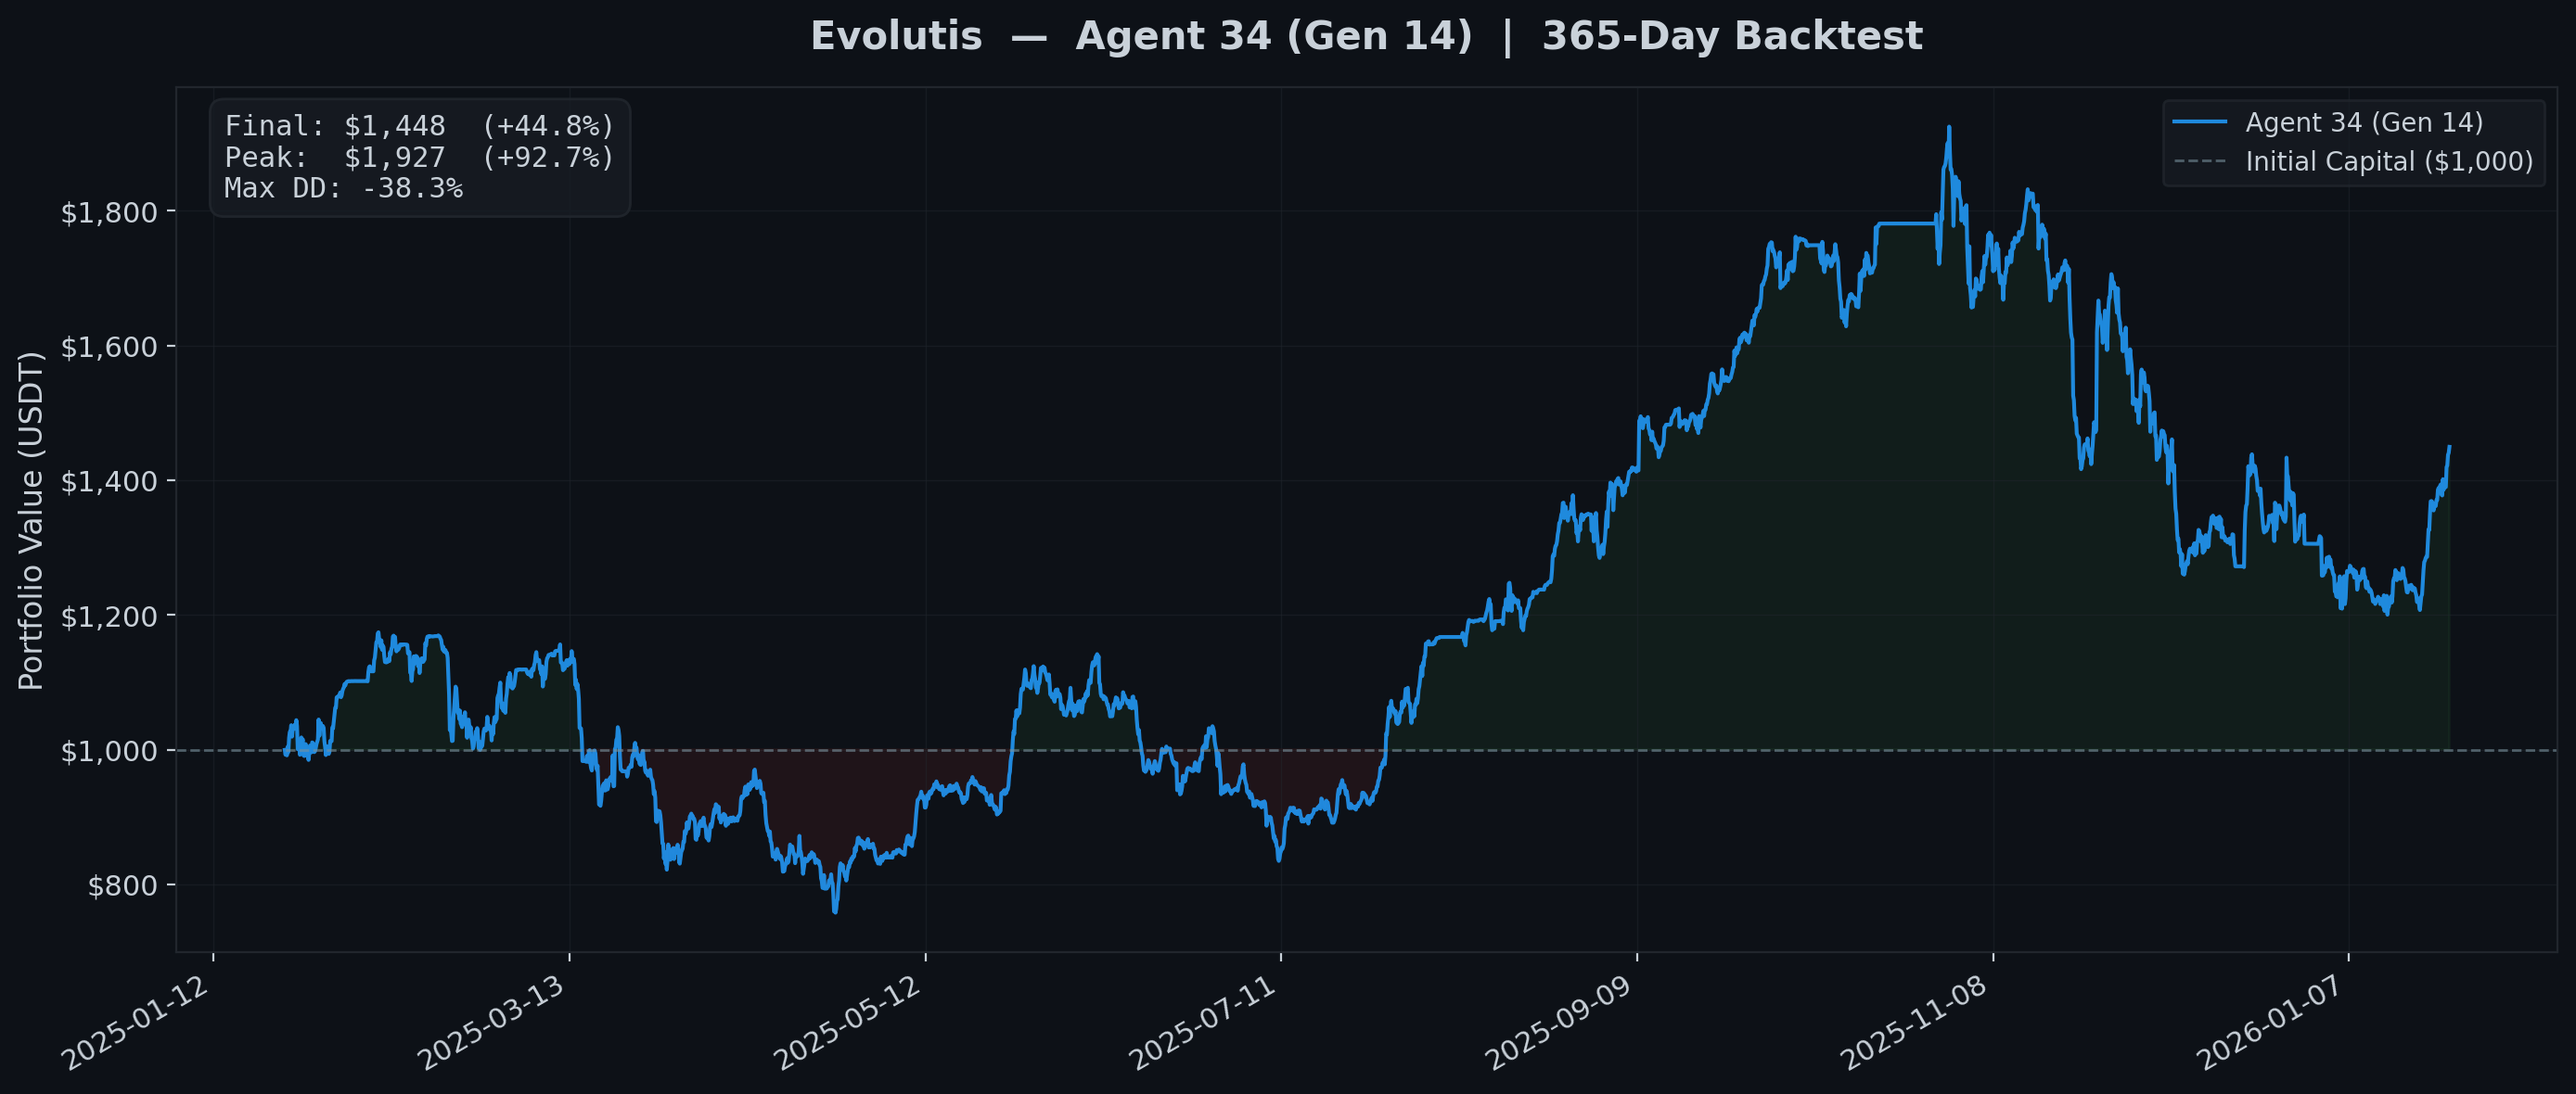
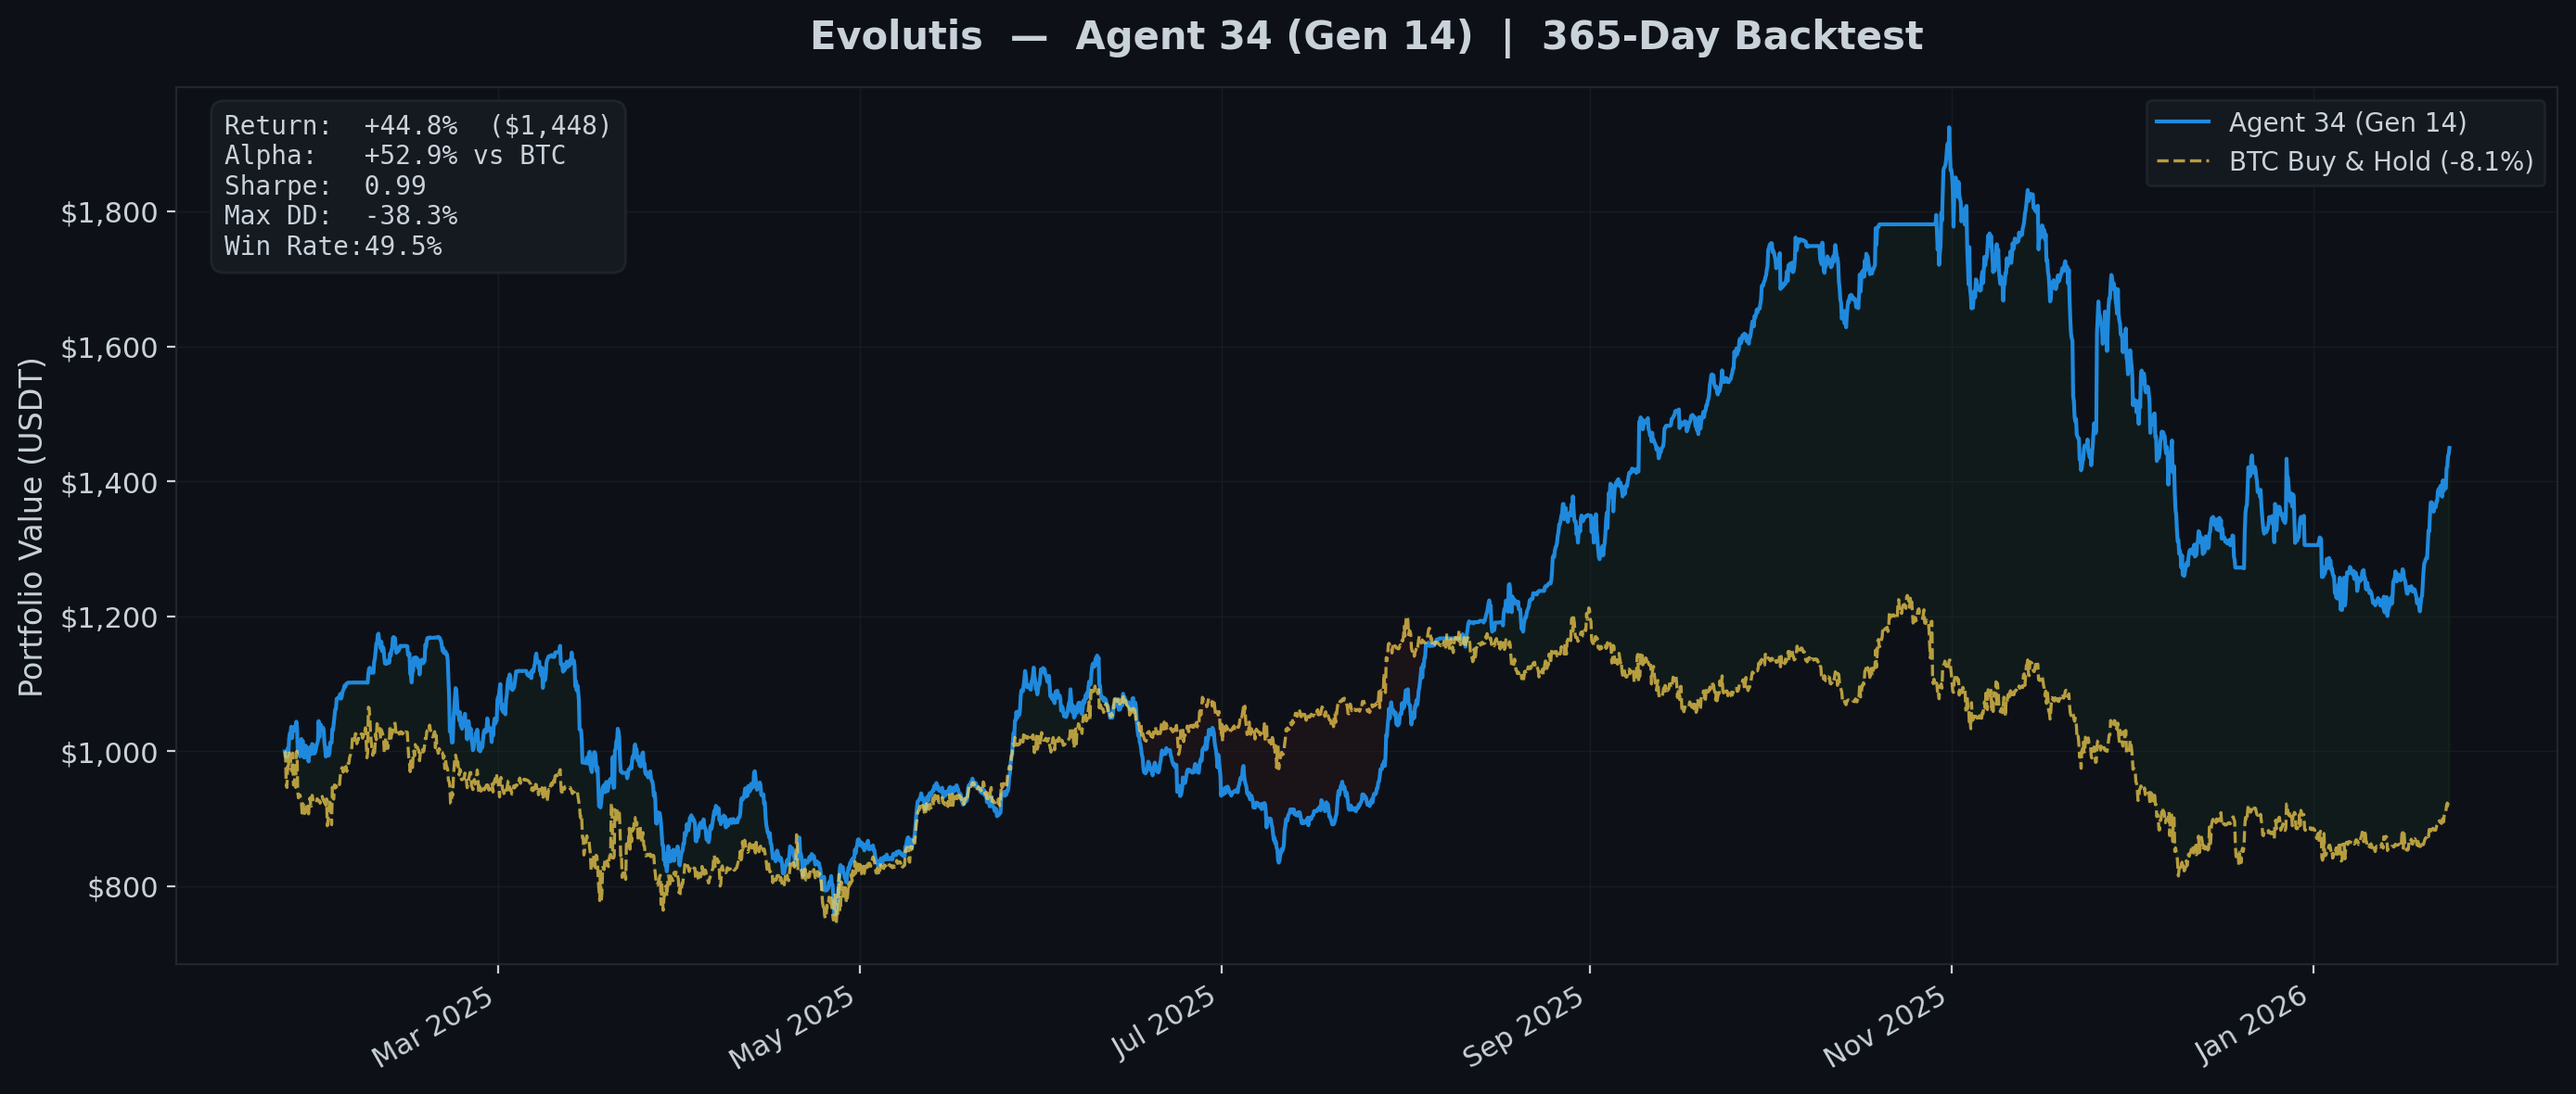
Update charts with BTC buy-and-hold comparison and comprehensive metrics
Add BTC buy-and-hold baseline (gold dashed line) to all charts.
Summary table now includes Sharpe, Sortino, Alpha vs BTC, and Win Rate.
Individual charts show fill between agent and BTC performance.

diff --git a/README.md b/README.md
@@ -33,7 +33,7 @@ Evolutis uses agents that they use complex multiple domain methods. The best-per
 
 ![Summary Table](results/backtests/summary_table.png)
 
-All 6 top-performing agents achieved positive returns over the 365-day backtest period (Jan 2025 — Jan 2026), with the best agent returning **+134.5%**.
+All 6 top-performing agents achieved positive returns over the 365-day backtest period (Jan 2025 — Jan 2026), while BTC buy-and-hold returned **-8.2%%** over the same period. The best agent returned **+134.5%%** — an alpha of **+142.7%%** over simply holding Bitcoin.
 
 ### Individual Agent Performance
 
